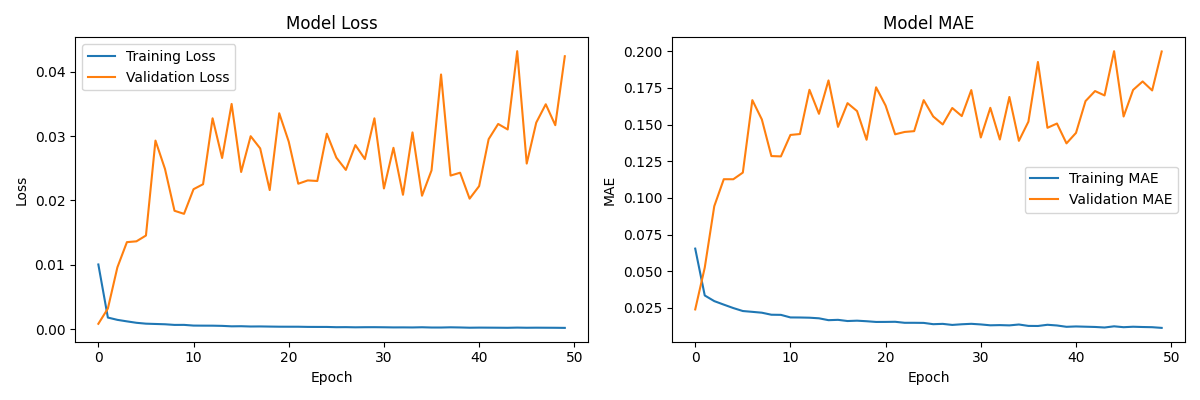
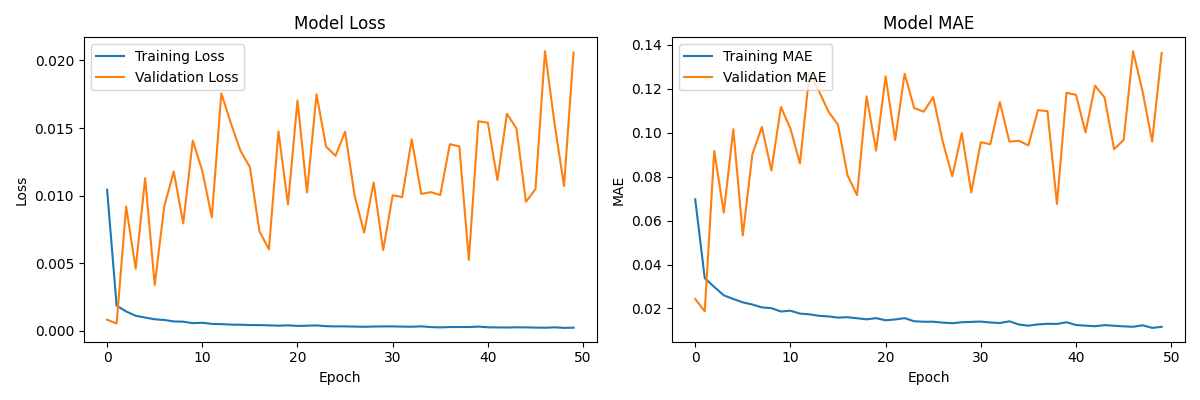
Add Facebook Prophet 14-day forecast card and retrain LSTM model

diff --git a/templates/index.html b/templates/index.html
@@ -695,7 +695,7 @@
                     <div class="predict-hint">Run forecast to update 7-day and 14-day checkpoints</div>
                 </div>
 
-                <button class="predict-btn" onclick="makePrediction()">
+                <button class="predict-btn" onclick="makePrediction(this)">
                     Make Prediction
                 </button>
 
@@ -777,6 +777,72 @@
                 </div>
             </div>
             
+            <!-- Facebook Prophet Forecast Card -->
+            <div class="card" id="prophetCard">
+                <div class="card-header">
+                    <div>
+                        <h2>Facebook Prophet Forecast</h2>
+                        <p>Additive time-series decomposition model with trend, weekly and yearly seasonality components.</p>
+                    </div>
+                    <div class="section-chip" style="background:#e8f4fd;color:#0077b6;">Prophet</div>
+                </div>
+
+                <div class="price-display">
+                    <div class="price-item">
+                        <div class="price-label">Current EUR/JPY</div>
+                        <div class="price-value" id="prophetCurrentPrice">--</div>
+                    </div>
+                    <div class="price-item">
+                        <div class="price-label">7-Day (Prophet)</div>
+                        <div class="price-value" id="prophetDay7">--</div>
+                    </div>
+                    <div class="price-item">
+                        <div class="price-label">14-Day (Prophet)</div>
+                        <div class="price-value" id="prophetDay14">--</div>
+                    </div>
+                </div>
+
+                <div class="action-row" style="margin-bottom:18px;">
+                    <div id="prophetChangeIndicator" class="change-indicator" style="display:none;margin:0;">
+                        <span id="prophetChangeValue">--</span>
+                    </div>
+                    <div class="predict-hint">Prophet uses statistical decomposition — independent of the LSTM model.</div>
+                </div>
+
+                <button class="predict-btn" id="prophetBtn" onclick="makeProphetPrediction(this)"
+                    style="background:linear-gradient(135deg,#0077b6 0%,#023e8a 60%,#03045e 100%);box-shadow:0 18px 32px rgba(0,77,182,0.28);">
+                    Run Prophet Forecast
+                </button>
+
+                <div class="insight-grid" style="margin-top:18px;">
+                    <div class="price-item" style="min-height:auto;">
+                        <div class="panel-title">7-Day Change</div>
+                        <div id="prophetDay7Change" class="price-value" style="font-size:1.4rem;">--</div>
+                    </div>
+                    <div class="price-item" style="min-height:auto;">
+                        <div class="panel-title">14-Day Change</div>
+                        <div id="prophetDay14Change" class="price-value" style="font-size:1.4rem;">--</div>
+                    </div>
+                </div>
+
+                <!-- Prophet confidence band info -->
+                <div class="model-info" style="margin-top:18px;" id="prophetBandInfo">
+                    <div class="panel-title">Confidence Bands (14-Day)</div>
+                    <div class="model-info-item">
+                        <strong>Day 7 Low / High</strong>
+                        <span id="prophetDay7Band">--</span>
+                    </div>
+                    <div class="model-info-item">
+                        <strong>Day 14 Low / High</strong>
+                        <span id="prophetDay14Band">--</span>
+                    </div>
+                </div>
+
+                <div class="chart-container" style="margin-top:18px;">
+                    <canvas id="prophetChart"></canvas>
+                </div>
+            </div>
+
             <!-- Historical Chart -->
             <div class="card">
                 <div class="card-header">
@@ -819,6 +885,7 @@
     <script>
         let priceChart = null;
         let historicalChart = null;
+        let prophetChart = null;
         let lastPrediction = null;
         
         // Initialize
@@ -826,6 +893,8 @@
             loadCurrentPrice();
             loadModelInfo();
             updateHistoricalChart();
+            // Auto-run prediction so forecast fields populate without manual click.
+            setTimeout(() => makePrediction(), 800);
             // Refresh price every 60 seconds
             setInterval(loadCurrentPrice, 60000);
         });
@@ -849,8 +918,11 @@
                 .catch(error => showError('Failed to load current price: ' + error));
         }
         
-        function makePrediction() {
-            const btn = event.target;
+        function makePrediction(triggerBtn = null) {
+            const btn = triggerBtn || document.querySelector('.predict-btn');
+            if (!btn) {
+                return;
+            }
             btn.disabled = true;
             btn.innerHTML = '<span class="loading"></span>Making Prediction...';
             
@@ -1115,6 +1187,127 @@
             }
         }
         
+        function makeProphetPrediction(btn) {
+            btn.disabled = true;
+            btn.innerHTML = '<span class="loading"></span>Running Prophet...';
+
+            fetch('/api/prophet-predict', {
+                method: 'POST',
+                headers: { 'Content-Type': 'application/json' }
+            })
+            .then(r => r.json())
+            .then(data => {
+                if (!data.success) { showError('Prophet failed: ' + data.error); return; }
+
+                document.getElementById('prophetCurrentPrice').textContent = data.current_price.toFixed(4);
+                document.getElementById('prophetDay7').textContent  = data.day7_predicted_price.toFixed(4);
+                document.getElementById('prophetDay14').textContent = data.day14_predicted_price.toFixed(4);
+
+                const sign7  = data.day7_change  > 0 ? '+' : '';
+                const sign14 = data.day14_change > 0 ? '+' : '';
+                const color7  = data.day7_change  >= 0 ? '#0f6b3d' : '#b54708';
+                const color14 = data.day14_change >= 0 ? '#0f6b3d' : '#b54708';
+                document.getElementById('prophetDay7Change').textContent  = sign7  + data.day7_change.toFixed(2)  + '%';
+                document.getElementById('prophetDay14Change').textContent = sign14 + data.day14_change.toFixed(2) + '%';
+                document.getElementById('prophetDay7Change').style.color  = color7;
+                document.getElementById('prophetDay14Change').style.color = color14;
+
+                const changeDiv = document.getElementById('prophetChangeIndicator');
+                const changeVal = document.getElementById('prophetChangeValue');
+                changeVal.textContent = sign14 + data.day14_change.toFixed(2) + '% (14-day)';
+                changeDiv.className = 'change-indicator ' + (data.day14_change >= 0 ? 'change-up' : 'change-down');
+                changeDiv.style.display = 'block';
+
+                // Confidence bands
+                const d7i  = Math.min(6,  data.forecast_prices.length - 1);
+                const d14i = Math.min(13, data.forecast_prices.length - 1);
+                document.getElementById('prophetDay7Band').textContent =
+                    data.forecast_lower[d7i].toFixed(4) + ' / ' + data.forecast_upper[d7i].toFixed(4);
+                document.getElementById('prophetDay14Band').textContent =
+                    data.forecast_lower[d14i].toFixed(4) + ' / ' + data.forecast_upper[d14i].toFixed(4);
+
+                renderProphetChart(data);
+                showSuccess('Prophet forecast complete — 14-day projection ready.');
+            })
+            .catch(err => showError('Prophet error: ' + err))
+            .finally(() => {
+                btn.disabled = false;
+                btn.innerHTML = 'Run Prophet Forecast';
+            });
+        }
+
+        function renderProphetChart(data) {
+            const labels = data.forecast_dates;
+            const prices = data.forecast_prices;
+            const lower  = data.forecast_lower;
+            const upper  = data.forecast_upper;
+
+            if (prophetChart) { prophetChart.destroy(); }
+
+            const ctx = document.getElementById('prophetChart').getContext('2d');
+            prophetChart = new Chart(ctx, {
+                type: 'line',
+                data: {
+                    labels: labels,
+                    datasets: [
+                        {
+                            label: 'Prophet Forecast',
+                            data: prices,
+                            borderColor: '#0077b6',
+                            backgroundColor: 'rgba(0, 119, 182, 0.12)',
+                            borderWidth: 2,
+                            tension: 0.35,
+                            fill: false,
+                            pointRadius: 3,
+                        },
+                        {
+                            label: 'Upper Band',
+                            data: upper,
+                            borderColor: 'rgba(0,119,182,0.25)',
+                            backgroundColor: 'rgba(0,119,182,0.08)',
+                            borderWidth: 1,
+                            borderDash: [4, 4],
+                            tension: 0.35,
+                            fill: '+1',
+                            pointRadius: 0,
+                        },
+                        {
+                            label: 'Lower Band',
+                            data: lower,
+                            borderColor: 'rgba(0,119,182,0.25)',
+                            backgroundColor: 'rgba(0,119,182,0.08)',
+                            borderWidth: 1,
+                            borderDash: [4, 4],
+                            tension: 0.35,
+                            fill: false,
+                            pointRadius: 0,
+                        }
+                    ]
+                },
+                options: {
+                    responsive: true,
+                    maintainAspectRatio: false,
+                    plugins: {
+                        legend: { display: true, position: 'top' },
+                        tooltip: {
+                            callbacks: {
+                                label: ctx => ctx.dataset.label + ': ' + ctx.parsed.y.toFixed(4)
+                            }
+                        }
+                    },
+                    scales: {
+                        y: {
+                            beginAtZero: false,
+                            title: { display: true, text: 'EUR/JPY Price' }
+                        },
+                        x: {
+                            ticks: { maxTicksLimit: 7 }
+                        }
+                    }
+                }
+            });
+        }
+
         function showError(message) {
             const errorDiv = document.getElementById('errorMsg');
             errorDiv.textContent = message;

diff --git a/app.py b/app.py
@@ -464,6 +464,66 @@ def predict():
         traceback.print_exc()
         return jsonify({'success': False, 'error': str(e)}), 500
 
+@app.route('/api/prophet-predict', methods=['POST'])
+def prophet_predict():
+    """Predict EUR/JPY prices for the next 14 days using Facebook Prophet."""
+    try:
+        from prophet import Prophet
+
+        scraper = EURJPYDataScraper()
+        data = scraper.fetch_data(
+            period=DATA_CONFIG.get('historical_period', '10y'),
+            local_path=DATA_CONFIG.get('local_csv_path')
+        )
+        if data is None or data.empty:
+            return jsonify({'success': False, 'error': 'Could not load local price data'}), 500
+
+        # Prophet requires columns 'ds' (datetime) and 'y' (value)
+        df_prophet = data[['Close']].reset_index()
+        df_prophet.columns = ['ds', 'y']
+        df_prophet['ds'] = pd.to_datetime(df_prophet['ds']).dt.tz_localize(None)
+
+        m = Prophet(daily_seasonality=False, weekly_seasonality=True, yearly_seasonality=True)
+        m.fit(df_prophet)
+
+        horizon_days = int(PREDICTION_CONFIG.get('forecast_days', 14))
+        future = m.make_future_dataframe(periods=horizon_days)
+        forecast = m.predict(future)
+
+        future_forecast = forecast.tail(horizon_days)
+        forecast_dates = future_forecast['ds'].dt.strftime('%Y-%m-%d').tolist()
+        forecast_prices = [round(float(v), 4) for v in future_forecast['yhat'].tolist()]
+        forecast_lower  = [round(float(v), 4) for v in future_forecast['yhat_lower'].tolist()]
+        forecast_upper  = [round(float(v), 4) for v in future_forecast['yhat_upper'].tolist()]
+
+        current_price = float(data['Close'].iloc[-1])
+        day7_index  = min(6,  len(forecast_prices) - 1)
+        day14_index = min(13, len(forecast_prices) - 1)
+        day7_price  = forecast_prices[day7_index]
+        day14_price = forecast_prices[day14_index]
+        day7_change  = ((day7_price  - current_price) / current_price) * 100
+        day14_change = ((day14_price - current_price) / current_price) * 100
+
+        return jsonify({
+            'success': True,
+            'current_price': current_price,
+            'forecast_dates': forecast_dates,
+            'forecast_prices': forecast_prices,
+            'forecast_lower': forecast_lower,
+            'forecast_upper': forecast_upper,
+            'day7_date': forecast_dates[day7_index],
+            'day14_date': forecast_dates[day14_index],
+            'day7_predicted_price': day7_price,
+            'day14_predicted_price': day14_price,
+            'day7_change': round(float(day7_change), 2),
+            'day14_change': round(float(day14_change), 2),
+            'model': 'Facebook Prophet',
+        })
+    except Exception as e:
+        print(f"Prophet prediction error: {e}")
+        traceback.print_exc()
+        return jsonify({'success': False, 'error': str(e)}), 500
+
 @app.route('/api/model-info')
 def get_model_info():
     """Get model information"""
